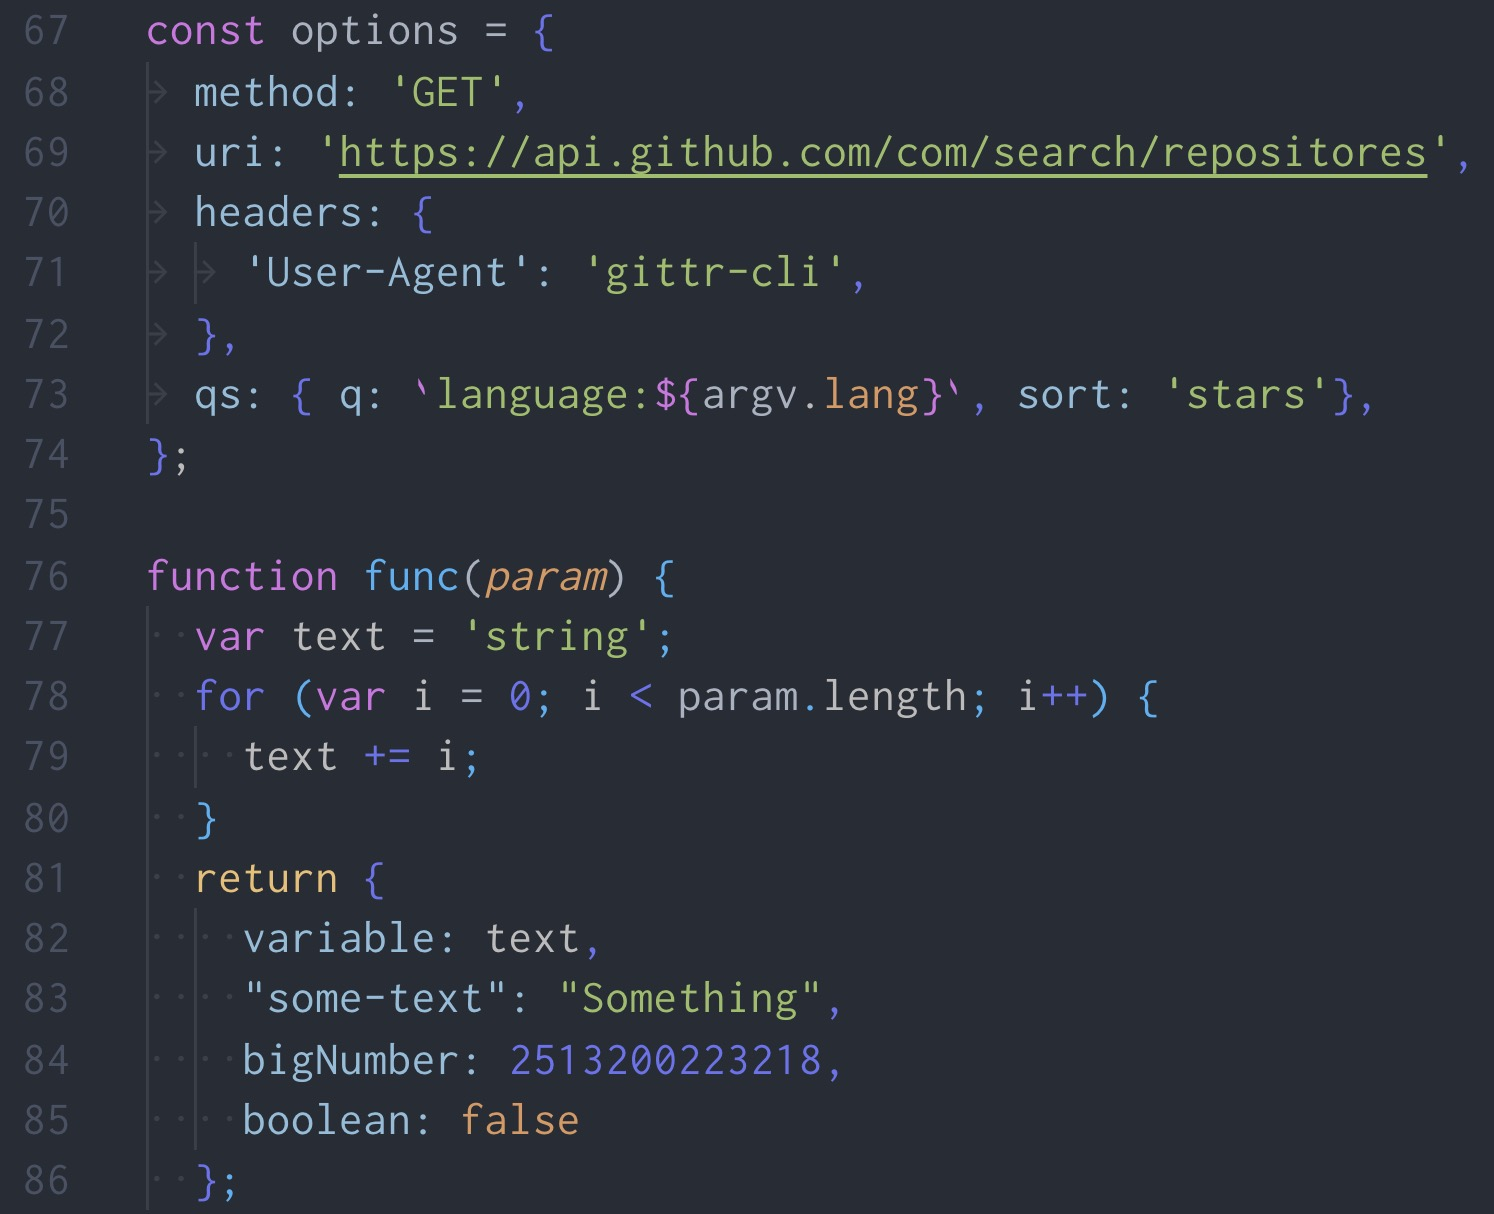
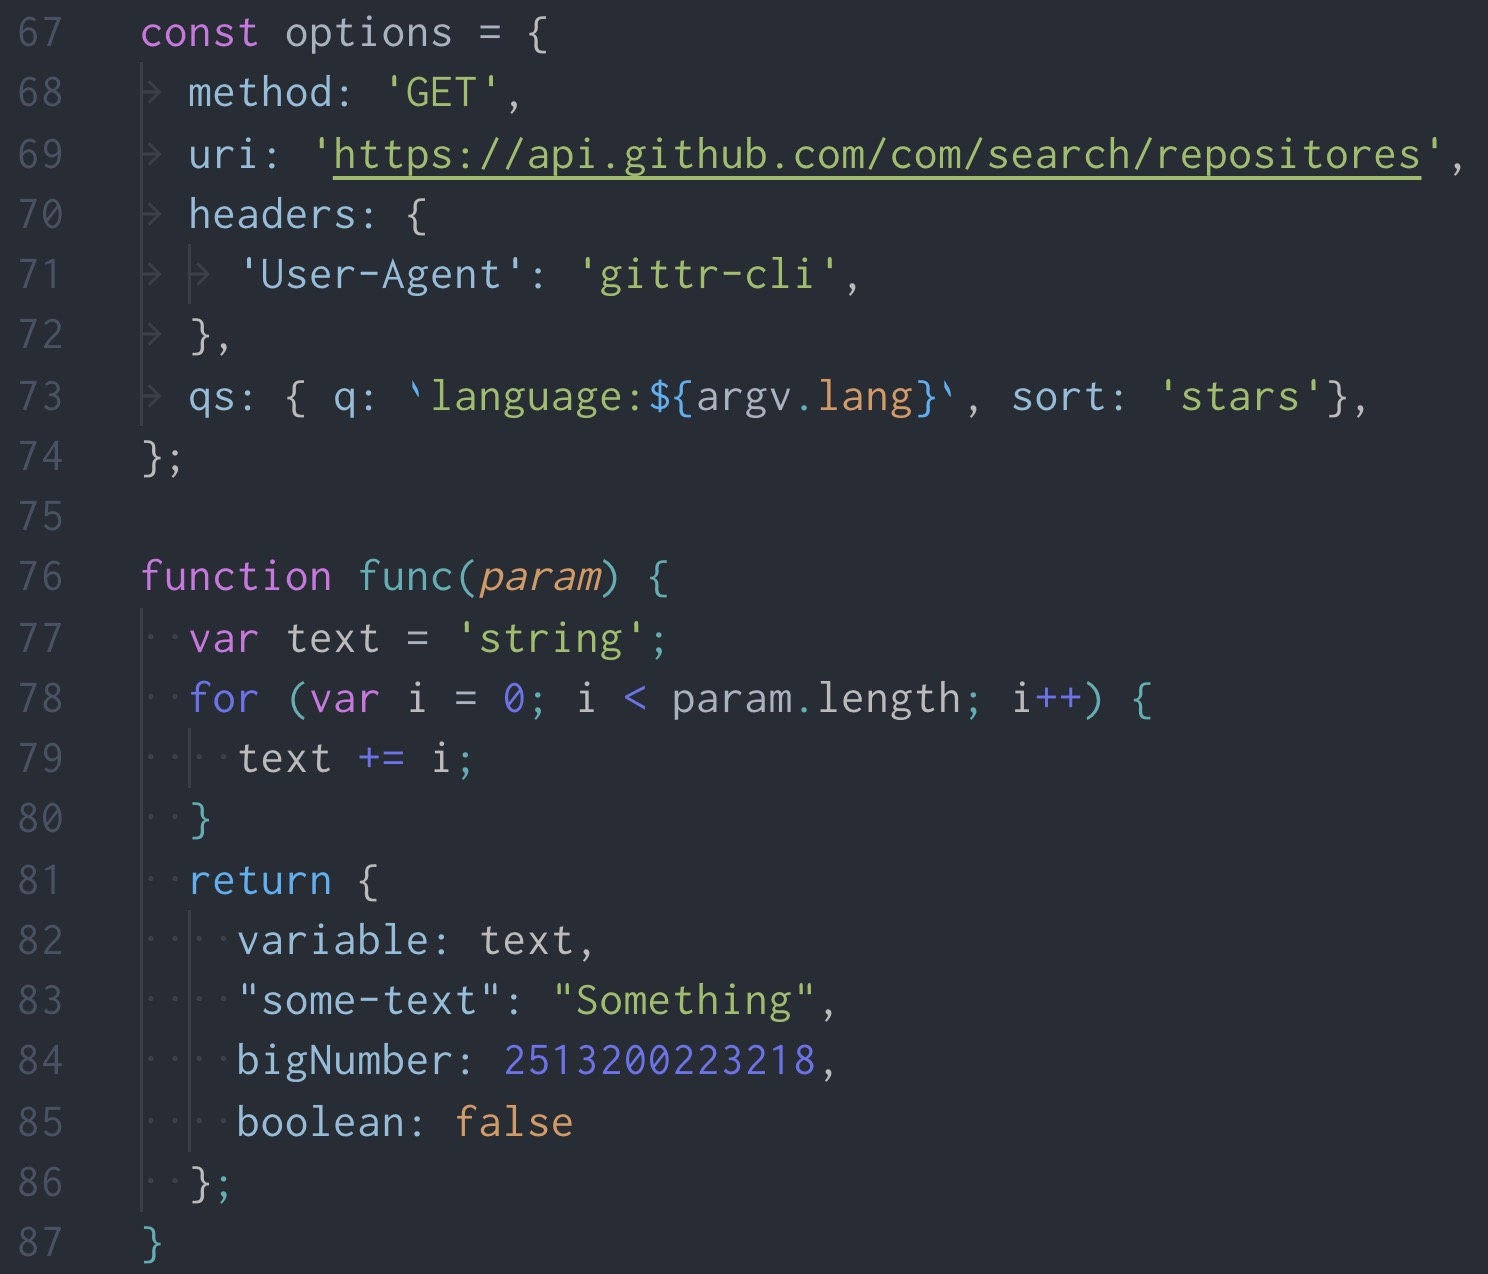
Update changelog and screenshots

diff --git a/samples/sample.jsx b/samples/sample.jsx
@@ -5,7 +5,7 @@ export class Test extends React.Component {
     render(){
         return (
 			<>
-				<div foo={this.props.bar} bar={true} baz={get('str')} boz={"other str"}></div>
+				<div foo={this.props.bar} bar={true} baz={get('str')} boz="other str"></div>
 				<MissionIcon
 					foo={this.props.bar}
 					bar={true}

diff --git a/CHANGELOG.md b/CHANGELOG.md
@@ -1,4 +1,10 @@
 # CHANGELOG
+## 1.0.12
+- Update JS/TS control flow and object key colors
+- Update JSON array and dicitonary colors
+- Change color of function calls to white to lessen color noise
+- Change most of usages of blue to cyan to reduce eye strain (blue is a bit too bright)
+
 ## 1.0.11
 - Update README with name of font in screenshots
 
